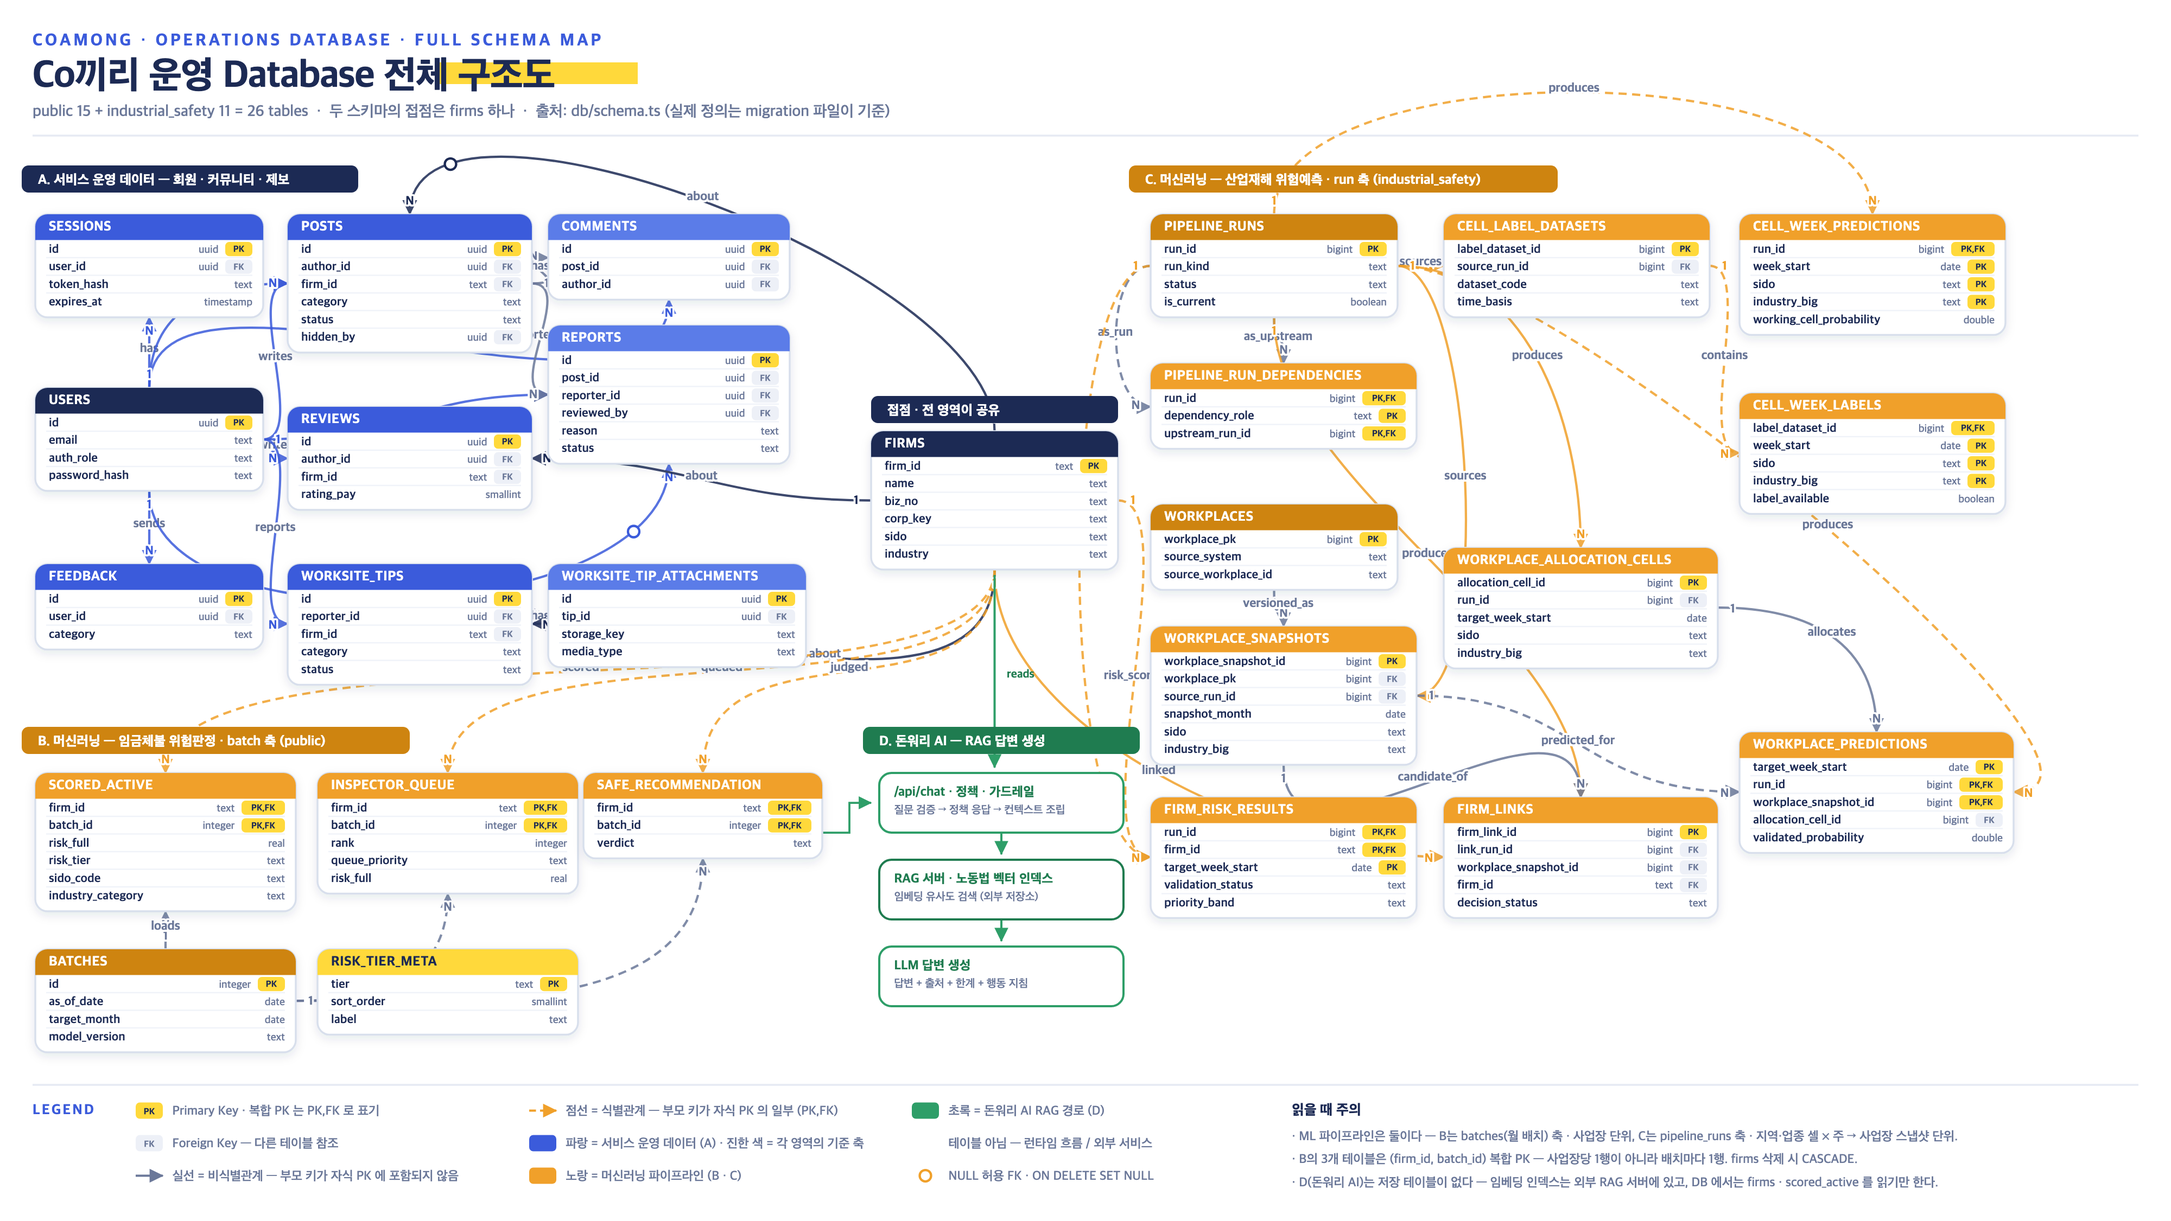
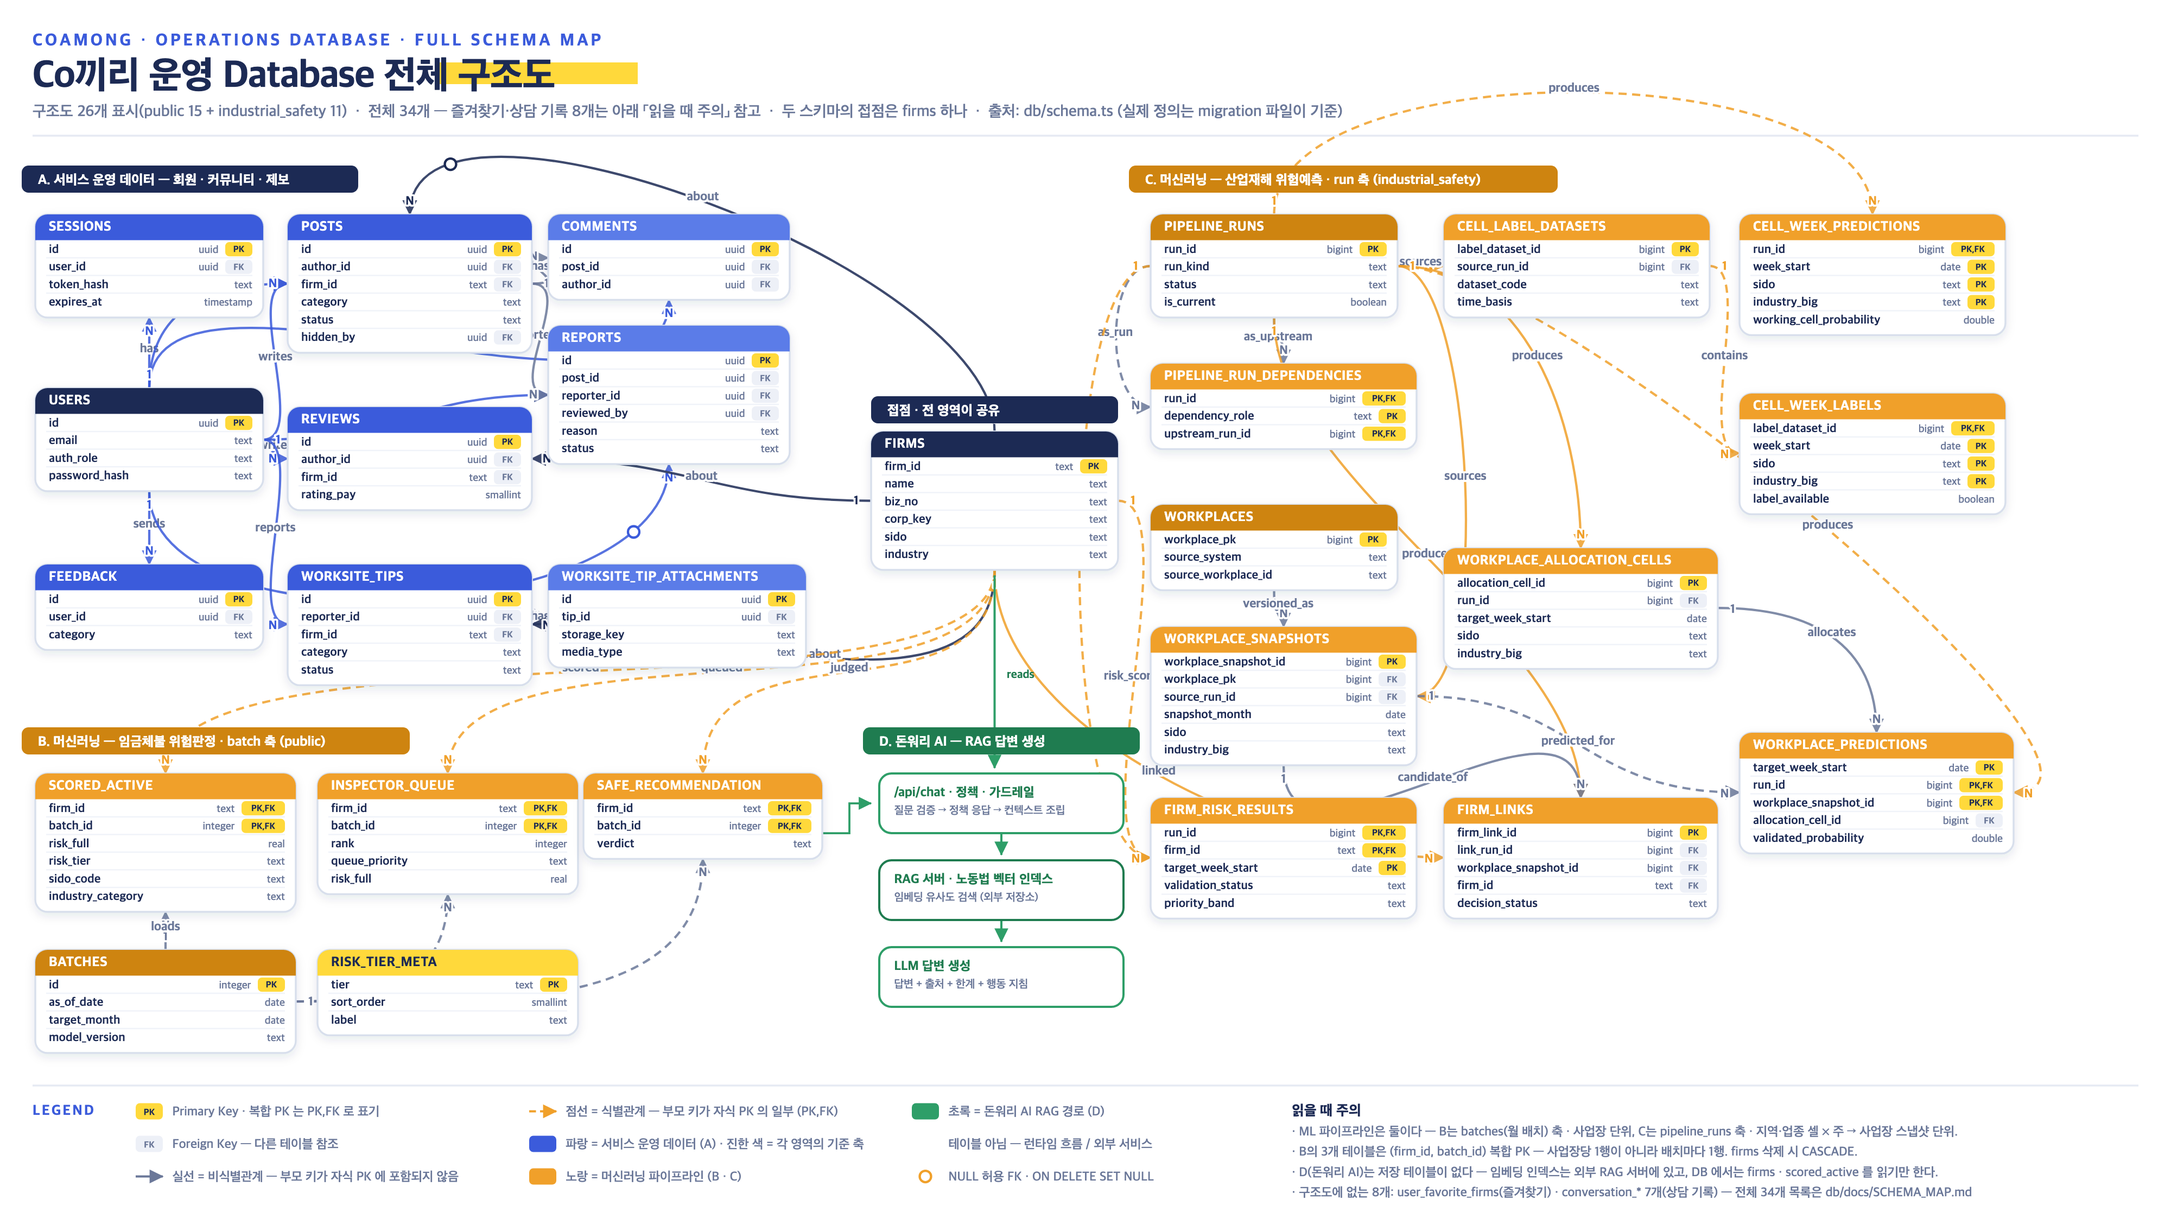
docs: 스키마 구조도에 빠진 테이블을 밝히고 경쟁 분석의 "RAG로 학습" 표현을 바로잡는다
구조도 부제가 "26 tables"라 전체 스키마(34개)로 읽혔다. 부제를 "구조도 26개 표시 ·
전체 34개"로 바꾸고, 그리지 않은 즐겨찾기·상담 기록 8개를 구조도 하단에 적었다.
경쟁 분석 문서는 사업장 데이터를 "학습(RAG)"시킨다고 적었지만, 실제로는 모델을
학습시키지 않고 공개 허용 항목과 법령 근거를 답변 문맥으로 넘긴다.

diff --git a/db/docs/schema-map/schema-map.html b/db/docs/schema-map/schema-map.html
@@ -12,7 +12,7 @@ svg{display:block;width:100%;height:100%}
 <marker id="mn" markerWidth="8" markerHeight="8" refX="6.6" refY="4" orient="auto"><path d="M0.5,0.8 L7,4 L0.5,7.2 Z" fill="#1C2A54"/></marker>
 <marker id="mo" markerWidth="8" markerHeight="8" refX="6.6" refY="4" orient="auto"><path d="M0.5,0.8 L7,4 L0.5,7.2 Z" fill="#F0A02A"/></marker>
 <filter id="sh" x="-20%" y="-20%" width="140%" height="150%"><feDropShadow dx="0" dy="2.5" stdDeviation="3.5" flood-color="#1C2A54" flood-opacity="0.10"/></filter>
-</defs><marker id="mgr" markerWidth="8" markerHeight="8" refX="6.6" refY="4" orient="auto"><path d="M0.5,0.8 L7,4 L0.5,7.2 Z" fill="#2E9E68"/></marker><rect width="1600" height="900" fill="#fff"/><text x="24" y="34" font-size="12.5" font-weight="900" letter-spacing="2" fill="#3B5BDB">COAMONG · OPERATIONS DATABASE · FULL SCHEMA MAP</text><rect x="322" y="46" width="148" height="16" fill="#FFD93B"/><text x="24" y="65" font-size="28" font-weight="900" fill="#1C2A54" letter-spacing="-0.4">Co끼리 운영 Database 전체 구조도</text><text x="24" y="86" font-size="11.5" font-weight="600" fill="#6B7899">public 15 + industrial_safety 11 = 26 tables &nbsp;·&nbsp; 두 스키마의 접점은 firms 하나 &nbsp;·&nbsp; 출처: db/schema.ts (실제 정의는 migration 파일이 기준)</text><line x1="24" y1="100" x2="1576" y2="100" stroke="#E6EAF3" stroke-width="1.4"/><path d="M110,286 C110,252 110,268 110,234" fill="none" stroke="#3B5BDB" stroke-width="1.7" opacity="0.85" marker-end="url(#mb)"/><text x="110" y="279" font-size="9" font-weight="900" fill="#3B5BDB" text-anchor="middle" paint-order="stroke" stroke="#fff" stroke-width="3" stroke-linejoin="round">1</text><text x="110" y="247" font-size="9" font-weight="900" fill="#3B5BDB" text-anchor="middle" paint-order="stroke" stroke="#fff" stroke-width="3" stroke-linejoin="round">N</text><text x="110" y="260" font-size="9.2" font-weight="800" fill="#6B7899" text-anchor="middle" paint-order="stroke" stroke="#fff" stroke-width="3.2" stroke-linejoin="round">has</text>
+</defs><marker id="mgr" markerWidth="8" markerHeight="8" refX="6.6" refY="4" orient="auto"><path d="M0.5,0.8 L7,4 L0.5,7.2 Z" fill="#2E9E68"/></marker><rect width="1600" height="900" fill="#fff"/><text x="24" y="34" font-size="12.5" font-weight="900" letter-spacing="2" fill="#3B5BDB">COAMONG · OPERATIONS DATABASE · FULL SCHEMA MAP</text><rect x="322" y="46" width="148" height="16" fill="#FFD93B"/><text x="24" y="65" font-size="28" font-weight="900" fill="#1C2A54" letter-spacing="-0.4">Co끼리 운영 Database 전체 구조도</text><text x="24" y="86" font-size="11.5" font-weight="600" fill="#6B7899">구조도 26개 표시(public 15 + industrial_safety 11) &nbsp;·&nbsp; 전체 34개 — 즐겨찾기·상담 기록 8개는 아래 「읽을 때 주의」 참고 &nbsp;·&nbsp; 두 스키마의 접점은 firms 하나 &nbsp;·&nbsp; 출처: db/schema.ts (실제 정의는 migration 파일이 기준)</text><line x1="24" y1="100" x2="1576" y2="100" stroke="#E6EAF3" stroke-width="1.4"/><path d="M110,286 C110,252 110,268 110,234" fill="none" stroke="#3B5BDB" stroke-width="1.7" opacity="0.85" marker-end="url(#mb)"/><text x="110" y="279" font-size="9" font-weight="900" fill="#3B5BDB" text-anchor="middle" paint-order="stroke" stroke="#fff" stroke-width="3" stroke-linejoin="round">1</text><text x="110" y="247" font-size="9" font-weight="900" fill="#3B5BDB" text-anchor="middle" paint-order="stroke" stroke="#fff" stroke-width="3" stroke-linejoin="round">N</text><text x="110" y="260" font-size="9.2" font-weight="800" fill="#6B7899" text-anchor="middle" paint-order="stroke" stroke="#fff" stroke-width="3.2" stroke-linejoin="round">has</text>
 <path d="M110,362 C110,396 110,382 110,416" fill="none" stroke="#3B5BDB" stroke-width="1.7" opacity="0.85" marker-end="url(#mb)"/><text x="110" y="375" font-size="9" font-weight="900" fill="#3B5BDB" text-anchor="middle" paint-order="stroke" stroke="#fff" stroke-width="3" stroke-linejoin="round">1</text><text x="110" y="409" font-size="9" font-weight="900" fill="#3B5BDB" text-anchor="middle" paint-order="stroke" stroke="#fff" stroke-width="3" stroke-linejoin="round">N</text><text x="110" y="389" font-size="9.2" font-weight="800" fill="#6B7899" text-anchor="middle" paint-order="stroke" stroke="#fff" stroke-width="3.2" stroke-linejoin="round">sends</text>
 <path d="M194,324 C228,324 178,209 212,209" fill="none" stroke="#3B5BDB" stroke-width="1.7" opacity="0.85" marker-end="url(#mb)"/><text x="205" y="327" font-size="9" font-weight="900" fill="#3B5BDB" text-anchor="middle" paint-order="stroke" stroke="#fff" stroke-width="3" stroke-linejoin="round">1</text><text x="201" y="212" font-size="9" font-weight="900" fill="#3B5BDB" text-anchor="middle" paint-order="stroke" stroke="#fff" stroke-width="3" stroke-linejoin="round">N</text><text x="203" y="266" font-size="9.2" font-weight="800" fill="#6B7899" text-anchor="middle" paint-order="stroke" stroke="#fff" stroke-width="3.2" stroke-linejoin="round">writes</text>
 <path d="M194,324 C228,324 178,338 212,338" fill="none" stroke="#3B5BDB" stroke-width="1.7" opacity="0.85" marker-end="url(#mb)"/><text x="205" y="327" font-size="9" font-weight="900" fill="#3B5BDB" text-anchor="middle" paint-order="stroke" stroke="#fff" stroke-width="3" stroke-linejoin="round">1</text><text x="201" y="341" font-size="9" font-weight="900" fill="#3B5BDB" text-anchor="middle" paint-order="stroke" stroke="#fff" stroke-width="3" stroke-linejoin="round">N</text><text x="203" y="331" font-size="9.2" font-weight="800" fill="#6B7899" text-anchor="middle" paint-order="stroke" stroke="#fff" stroke-width="3.2" stroke-linejoin="round">writes</text>
@@ -589,4 +589,4 @@ svg{display:block;width:100%;height:100%}
 <text x="659" y="664" font-size="8.2" font-weight="600" fill="#6B7899">임베딩 유사도 검색 (외부 저장소)</text>
 <rect x="648" y="698" width="180" height="44" rx="9" fill="#fff" stroke="#2E9E68" stroke-width="1.6"/>
 <text x="659" y="715" font-size="9.6" font-weight="900" fill="#1F7C50">LLM 답변 생성</text>
-<text x="659" y="728" font-size="8.2" font-weight="600" fill="#6B7899">답변 + 출처 + 한계 + 행동 지침</text><rect x="16" y="122" width="248" height="20" rx="5" fill="#1C2A54"/><text x="28" y="136" font-size="10" font-weight="900" fill="#fff">A. 서비스 운영 데이터 — 회원 · 커뮤니티 · 제보</text><rect x="16" y="536" width="286" height="20" rx="5" fill="#CE8410"/><text x="28" y="550" font-size="10" font-weight="900" fill="#fff">B. 머신러닝 — 임금체불 위험판정 · batch 축 (public)</text><rect x="832" y="122" width="316" height="20" rx="5" fill="#CE8410"/><text x="844" y="136" font-size="10" font-weight="900" fill="#fff">C. 머신러닝 — 산업재해 위험예측 · run 축 (industrial_safety)</text><rect x="642" y="292" width="182" height="20" rx="5" fill="#1C2A54"/><text x="654" y="306" font-size="10" font-weight="900" fill="#fff">접점 · 전 영역이 공유</text><rect x="636" y="536" width="204" height="20" rx="5" fill="#1F7C50"/><text x="648" y="550" font-size="10" font-weight="900" fill="#fff">D. 돈워리 AI — RAG 답변 생성</text><line x1="24" y1="800" x2="1576" y2="800" stroke="#E6EAF3" stroke-width="1.4"/><text x="24" y="822" font-size="10.5" font-weight="900" letter-spacing="1.3" fill="#3B5BDB">LEGEND</text><rect x="100" y="813" width="20" height="12" rx="3" fill="#FFD93B"/><text x="110" y="822" font-size="6.6" font-weight="900" fill="#1C2A54" text-anchor="middle">PK</text><text x="127" y="822.5" font-size="9.4" font-weight="600" fill="#6B7899">Primary Key · 복합 PK 는 PK,FK 로 표기</text><rect x="100" y="837" width="20" height="12" rx="3" fill="#EDF0F7"/><text x="110" y="846" font-size="6.6" font-weight="900" fill="#6B7899" text-anchor="middle">FK</text><text x="127" y="846.5" font-size="9.4" font-weight="600" fill="#6B7899">Foreign Key — 다른 테이블 참조</text><path d="M100,867 l20,0" stroke="#6B7899" stroke-width="1.6" marker-end="url(#mg)"/><text x="127" y="870.5" font-size="9.4" font-weight="600" fill="#6B7899">실선 = 비식별관계 — 부모 키가 자식 PK 에 포함되지 않음</text><path d="M390,819 l20,0" stroke="#F0A02A" stroke-width="1.6" stroke-dasharray="5 3" marker-end="url(#mo)"/><text x="417" y="822.5" font-size="9.4" font-weight="600" fill="#6B7899">점선 = 식별관계 — 부모 키가 자식 PK 의 일부 (PK,FK)</text><rect x="390" y="837" width="20" height="12" rx="3" fill="#3B5BDB"/><text x="417" y="846.5" font-size="9.4" font-weight="600" fill="#6B7899">파랑 = 서비스 운영 데이터 (A) · 진한 색 = 각 영역의 기준 축</text><rect x="390" y="861" width="20" height="12" rx="3" fill="#F0A02A"/><text x="417" y="870.5" font-size="9.4" font-weight="600" fill="#6B7899">노랑 = 머신러닝 파이프라인 (B · C)</text><rect x="672" y="813" width="20" height="12" rx="3" fill="#2E9E68"/><text x="699" y="822.5" font-size="9.4" font-weight="600" fill="#6B7899">초록 = 돈워리 AI RAG 경로 (D)</text><rect x="672" y="837" width="20" height="12" rx="3" fill="#fff"/><text x="699" y="846.5" font-size="9.4" font-weight="600" fill="#6B7899">테이블 아님 — 런타임 흐름 / 외부 서비스</text><circle cx="682" cy="867" r="4.2" fill="#fff" stroke="#F0A02A" stroke-width="1.7"/><text x="699" y="870.5" font-size="9.4" font-weight="600" fill="#6B7899">NULL 허용 FK · ON DELETE SET NULL</text><text x="952" y="822" font-size="10.5" font-weight="900" fill="#1C2A54">읽을 때 주의</text><text x="952" y="841" font-size="9.4" font-weight="600" fill="#6B7899">· ML 파이프라인은 둘이다 — B는 batches(월 배치) 축 · 사업장 단위, C는 pipeline_runs 축 · 지역·업종 셀 × 주 → 사업장 스냅샷 단위.</text><text x="952" y="858" font-size="9.4" font-weight="600" fill="#6B7899">· B의 3개 테이블은 (firm_id, batch_id) 복합 PK — 사업장당 1행이 아니라 배치마다 1행. firms 삭제 시 CASCADE.</text><text x="952" y="875" font-size="9.4" font-weight="600" fill="#6B7899">· D(돈워리 AI)는 저장 테이블이 없다 — 임베딩 인덱스는 외부 RAG 서버에 있고, DB 에서는 firms · scored_active 를 읽기만 한다.</text></svg></div></body></html>
+<text x="659" y="728" font-size="8.2" font-weight="600" fill="#6B7899">답변 + 출처 + 한계 + 행동 지침</text><rect x="16" y="122" width="248" height="20" rx="5" fill="#1C2A54"/><text x="28" y="136" font-size="10" font-weight="900" fill="#fff">A. 서비스 운영 데이터 — 회원 · 커뮤니티 · 제보</text><rect x="16" y="536" width="286" height="20" rx="5" fill="#CE8410"/><text x="28" y="550" font-size="10" font-weight="900" fill="#fff">B. 머신러닝 — 임금체불 위험판정 · batch 축 (public)</text><rect x="832" y="122" width="316" height="20" rx="5" fill="#CE8410"/><text x="844" y="136" font-size="10" font-weight="900" fill="#fff">C. 머신러닝 — 산업재해 위험예측 · run 축 (industrial_safety)</text><rect x="642" y="292" width="182" height="20" rx="5" fill="#1C2A54"/><text x="654" y="306" font-size="10" font-weight="900" fill="#fff">접점 · 전 영역이 공유</text><rect x="636" y="536" width="204" height="20" rx="5" fill="#1F7C50"/><text x="648" y="550" font-size="10" font-weight="900" fill="#fff">D. 돈워리 AI — RAG 답변 생성</text><line x1="24" y1="800" x2="1576" y2="800" stroke="#E6EAF3" stroke-width="1.4"/><text x="24" y="822" font-size="10.5" font-weight="900" letter-spacing="1.3" fill="#3B5BDB">LEGEND</text><rect x="100" y="813" width="20" height="12" rx="3" fill="#FFD93B"/><text x="110" y="822" font-size="6.6" font-weight="900" fill="#1C2A54" text-anchor="middle">PK</text><text x="127" y="822.5" font-size="9.4" font-weight="600" fill="#6B7899">Primary Key · 복합 PK 는 PK,FK 로 표기</text><rect x="100" y="837" width="20" height="12" rx="3" fill="#EDF0F7"/><text x="110" y="846" font-size="6.6" font-weight="900" fill="#6B7899" text-anchor="middle">FK</text><text x="127" y="846.5" font-size="9.4" font-weight="600" fill="#6B7899">Foreign Key — 다른 테이블 참조</text><path d="M100,867 l20,0" stroke="#6B7899" stroke-width="1.6" marker-end="url(#mg)"/><text x="127" y="870.5" font-size="9.4" font-weight="600" fill="#6B7899">실선 = 비식별관계 — 부모 키가 자식 PK 에 포함되지 않음</text><path d="M390,819 l20,0" stroke="#F0A02A" stroke-width="1.6" stroke-dasharray="5 3" marker-end="url(#mo)"/><text x="417" y="822.5" font-size="9.4" font-weight="600" fill="#6B7899">점선 = 식별관계 — 부모 키가 자식 PK 의 일부 (PK,FK)</text><rect x="390" y="837" width="20" height="12" rx="3" fill="#3B5BDB"/><text x="417" y="846.5" font-size="9.4" font-weight="600" fill="#6B7899">파랑 = 서비스 운영 데이터 (A) · 진한 색 = 각 영역의 기준 축</text><rect x="390" y="861" width="20" height="12" rx="3" fill="#F0A02A"/><text x="417" y="870.5" font-size="9.4" font-weight="600" fill="#6B7899">노랑 = 머신러닝 파이프라인 (B · C)</text><rect x="672" y="813" width="20" height="12" rx="3" fill="#2E9E68"/><text x="699" y="822.5" font-size="9.4" font-weight="600" fill="#6B7899">초록 = 돈워리 AI RAG 경로 (D)</text><rect x="672" y="837" width="20" height="12" rx="3" fill="#fff"/><text x="699" y="846.5" font-size="9.4" font-weight="600" fill="#6B7899">테이블 아님 — 런타임 흐름 / 외부 서비스</text><circle cx="682" cy="867" r="4.2" fill="#fff" stroke="#F0A02A" stroke-width="1.7"/><text x="699" y="870.5" font-size="9.4" font-weight="600" fill="#6B7899">NULL 허용 FK · ON DELETE SET NULL</text><text x="952" y="822" font-size="10.5" font-weight="900" fill="#1C2A54">읽을 때 주의</text><text x="952" y="837" font-size="9.4" font-weight="600" fill="#6B7899">· ML 파이프라인은 둘이다 — B는 batches(월 배치) 축 · 사업장 단위, C는 pipeline_runs 축 · 지역·업종 셀 × 주 → 사업장 스냅샷 단위.</text><text x="952" y="852" font-size="9.4" font-weight="600" fill="#6B7899">· B의 3개 테이블은 (firm_id, batch_id) 복합 PK — 사업장당 1행이 아니라 배치마다 1행. firms 삭제 시 CASCADE.</text><text x="952" y="867" font-size="9.4" font-weight="600" fill="#6B7899">· D(돈워리 AI)는 저장 테이블이 없다 — 임베딩 인덱스는 외부 RAG 서버에 있고, DB 에서는 firms · scored_active 를 읽기만 한다.</text><text x="952" y="882" font-size="9.4" font-weight="600" fill="#6B7899">· 구조도에 없는 8개: user_favorite_firms(즐겨찾기) · conversation_* 7개(상담 기록) — 전체 34개 목록은 db/docs/SCHEMA_MAP.md</text></svg></div></body></html>

diff --git a/docs/pamphlet/competitor_analysis.md b/docs/pamphlet/competitor_analysis.md
@@ -13,7 +13,7 @@
 
 * 세 서비스 모두 "사후 확정 정보(고용24)", "주관적 경험(리뷰 커뮤니티)", "일반화된 지식(LLM)" 중 하나에 머무는 반면, Co끼리는 **입사 전 시점에 공개데이터 기반 사전 신호**를 제공해 예방적 판단을 가능하게 함.
 * 특정 사업장을 "위험하다"고 확정 판정하지 않고 신호와 근거만 제시함으로써, 잡플래닛류의 **낙인·명예훼손 리스크**와 고용24 명단의 **경직성(등재 전까지는 정보 없음)** 사이의 간극을 메움.
-* 범용 LLM과 달리 \*\*해당 사업장의 신호 카드 데이터를 우선 학습(RAG)\*\*시켜, 추상적 법령 설명이 아니라 "이 상황에서 다음에 뭘 해야 하는지"까지 안내.
+* 범용 LLM과 달리 \*\*해당 사업장의 신호 카드 정보(공개 허용 항목)와 공식 법령 근거를 답변 문맥으로 넘겨\*\*(모델을 학습·미세조정하지 않음), 추상적 법령 설명이 아니라 "이 상황에서 다음에 뭘 해야 하는지"까지 안내.
 * **사업장을 소유한 사용자 입장에서도** 유효한 차별점: 확정 판정을 만들지 않는 설계는 "근거 없는 위험 사업장 낙인"으로부터 보호되는 장치로도 작동함. Co끼리는 '사용자' 계정이 자기 사업장(firm\_id)을 연결하면 같은 신호 카드를 스스로도 열람할 수 있게 해, 잡플래닛류 리뷰 서비스가 근거 없는 악성 후기를 그대로 노출하는 것과 달리 공식 데이터와 신호를 분리 표기해 방어권도 함께 제공함.
 
 \---

diff --git a/db/docs/SCHEMA_MAP.md b/db/docs/SCHEMA_MAP.md
@@ -11,7 +11,8 @@
 
 > **구조도 기준 시점**: 구조도는 26개 테이블(public 15 + industrial_safety 11)을 그린다.
 > 이후 추가된 **즐겨찾기 1개(`user_favorite_firms`)와 상담 대화 기록 7개(`conversation_*`)**
-> 는 구조도에 아직 없고 아래 표에만 있다. 현재 전체는 **34개**(public 23 + industrial_safety 11)다.
+> 는 구조도에 그리지 않았다(구조도 하단 「읽을 때 주의」에 이름만 적었다). 아래 표에는 모두 있다.
+> 현재 전체는 **34개**(public 23 + industrial_safety 11)다.
 
 ## 영역 요약
 
